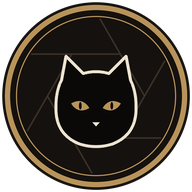
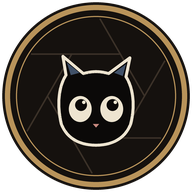
feat: cuter cat with big round eyes; lift the vignette off the plate's border
Redraw the hero cat (round head, big cream eyes looking up, rosy nose,
slate inner ears, curled tail) with an occasional glance, and use the same
cat in the README banner and the logo/favicon seal. The vignette now sits
14px above the brass hairline instead of overlapping it.

Changed region(s): [[0.2812, 0.2812, 0.7188, 0.7812], [0.4688, 0.625, 0.5312, 0.6562]]

diff --git a/index.html b/index.html
@@ -43,13 +43,27 @@
             <path class="hair" d="M112 359h36M98 324h62M90 293h80"/>
           </g>
           <g class="cat">
-            <path class="cat-tail solid" d="M86 274C56 277 38 262 38 238C38 218 50 206 46 190C44 181 52 177 57 184C64 196 54 214 54 236C54 254 66 264 88 263Z"/>
-            <path class="solid body" d="M78 278C68 250 74 208 96 184C100 177 100 169 99 163C89 153 88 128 94 112L100 76L120 96Q131 92 142 96L162 78L166 112C172 128 171 152 161 163C160 170 161 177 166 184C188 208 194 250 182 278Z"/>
-            <path class="hair" d="M101 84L104 104M159 86L156 104M120 278C116 250 118 226 122 208M140 278C144 250 142 226 138 208M92 276C86 254 92 232 106 222M114 278Q121 273 128 278M132 278Q139 273 146 278M112 144L88 140M112 148L90 152M148 144L172 140M148 148L170 152"/>
-            <path class="nose" d="M126 138h8l-4 5z"/>
+            <!-- Tail: a cream rim under a black stroke, standing up with a curl -->
+            <g class="cat-tail">
+              <path class="tail-rim" d="M168 268C198 262 210 236 205 210C201 190 213 178 224 185C231 190 228 200 220 199"/>
+              <path class="tail" d="M168 268C198 262 210 236 205 210C201 190 213 178 224 185C231 190 228 200 220 199"/>
+            </g>
+            <path class="solid body" d="M100 184C87 210 78 244 80 268Q82 278 93 278H167Q178 278 180 268C182 244 173 210 160 184Z"/>
+            <path class="hair" d="M113 278V240M147 278V240M104 278Q112 270 121 278M139 278Q147 270 156 278"/>
+            <!-- A big round head, ears up, looking at you -->
+            <path class="solid body" d="M86 168C80 142 83 120 92 106L88 82L114 104Q130 99 146 104L173 84L168 108C177 122 180 144 174 168C166 189 147 195 130 195C113 195 94 189 86 168Z"/>
+            <path class="inner-ear" d="M93 90L98 106L109 103ZM168 92L164 107L153 103Z"/>
+            <path class="hair" d="M93 171L72 166M93 176L74 179M167 171L188 166M167 176L186 179M126 177Q130 181 130 177Q130 181 134 177"/>
+            <path class="nose" d="M126 168h8l-4 4.5z"/>
             <g class="cat-eyes">
-              <path class="eye" d="M107 124Q116 116 125 124Q116 132 107 124ZM135 124Q144 116 153 124Q144 132 135 124Z"/>
-              <path class="pupil" d="M116 119.5v9M144 119.5v9"/>
+              <ellipse class="eye" cx="110" cy="149" rx="14.5" ry="16.5"/>
+              <ellipse class="eye" cx="150" cy="149" rx="14.5" ry="16.5"/>
+              <g class="cat-pupils">
+                <circle class="pupil" cx="111" cy="144" r="7.5"/>
+                <circle class="pupil" cx="151" cy="144" r="7.5"/>
+                <circle class="shine" cx="114.5" cy="140.5" r="2.2"/>
+                <circle class="shine" cx="154.5" cy="140.5" r="2.2"/>
+              </g>
             </g>
           </g>
           <g class="flash">

diff --git a/css/home.css b/css/home.css
@@ -38,15 +38,17 @@
 }
 
 /* The vignette stands at the right: a black cat on three old books beside a
-   folding camera, the desk line resting on the plate's brass hairline. It
-   develops in just before the print does. Engraved line art in --ink. */
+   folding camera, the desk line sitting just above the plate's brass hairline
+   (never on it). It develops in just before the print does. Line art in --ink. */
 .vignette {
   grid-area: vignette;
   align-self: end;
   width: auto;
   height: clamp(220px, 24vw, 340px);
   aspect-ratio: 360 / 400;
-  margin-bottom: calc(-1 * var(--intro-gap));
+  /* Pull it down toward the plate, but keep the desk line ~14px clear of the
+     brass hairline (outline-offset 10px) so the art never sits on it */
+  margin-bottom: calc(24px - var(--intro-gap));
   overflow: visible;
   fill: none;
   stroke: var(--ink);
@@ -63,24 +65,33 @@
 .vignette .hair { stroke-width: 0.8; opacity: 0.55; }
 .vignette .band { stroke: var(--brass); stroke-width: 1.6; }
 .vignette .label { stroke: var(--brass); stroke-width: 0.8; }
-.vignette .nose { fill: var(--muted); stroke: none; }
-.vignette .eye { fill: var(--brass); stroke: none; }
-.vignette .pupil { stroke: #0b0908; stroke-width: 2.2; }
+.vignette .nose { fill: #c98a80; stroke: none; }
+.vignette .inner-ear { fill: var(--slate); stroke: none; opacity: 0.8; }
+.vignette .eye { fill: var(--ink); stroke: none; }
+.vignette .pupil { fill: #0b0908; stroke: none; }
+.vignette .shine { fill: var(--ink); stroke: none; }
+.vignette .tail-rim { stroke: var(--ink); stroke-width: 12.5; }
+.vignette .tail { stroke: #0b0908; stroke-width: 9.5; }
 .vignette .glass { fill: #0b0908; stroke-width: 0.8; }
 .vignette .glint { fill: var(--ink); stroke: none; opacity: 0.7; }
 .vignette .bulb { fill: var(--ink); stroke: none; }
 .vignette .stem { stroke-width: 2; }
 
-/* A slow blink (about 150ms every 7s) and a lazy tail */
+/* A slow blink (about 150ms every 7s), a curious glance now and then,
+   and a lazy tail */
 .cat-eyes {
   transform-box: fill-box;
   transform-origin: center;
   animation: blink 7s infinite;
 }
 
+.cat-pupils {
+  animation: glance 11s ease-in-out infinite;
+}
+
 .cat-tail {
   transform-box: fill-box;
-  transform-origin: 95% 95%;
+  transform-origin: 0% 100%;
   animation: swish 5s ease-in-out infinite alternate;
 }
 
@@ -106,6 +117,12 @@
 @keyframes blink {
   0%, 97%, 100% { transform: scaleY(1); }
   98.5% { transform: scaleY(0.1); }
+}
+
+@keyframes glance {
+  0%, 40%, 82%, 100% { transform: translateX(0); }
+  46%, 56% { transform: translateX(-3.5px); }
+  62%, 76% { transform: translateX(3.5px); }
 }
 
 @keyframes swish {

diff --git a/docs/ARCHITECTURE.md b/docs/ARCHITECTURE.md
@@ -138,12 +138,12 @@ Direction: dark academia. Everything visual comes from tokens on `:root` in `css
 - **Type:** two self-hosted families in `assets/fonts/`, both SIL OFL. Cormorant Garamond (a serif, upright and italic) is for display type, headings and the print captions. Hanken Grotesk is for the UI. Use sentence case everywhere, with no all-caps labels.
 - **Atmosphere:** `body::before` is a fixed vignette and `body::after` a fixed paper grain (an inline SVG noise tile), both behind the content. The rain canvas sits above them.
 - **Shape:** photos have sharp corners, while controls are soft (pill buttons, round slider thumbs).
-- **Logo:** `assets/brand/logo.svg` is a cat seal. The `icon-*.png` files and `apple-touch-icon.png` are PNG renders of it, used for the favicon and the lab header logo. The empty tool frame on the home page uses `logo.svg` directly. It is temporary art: regenerate the PNGs at the same sizes with Pillow if it changes.
-- **Vignette:** the home hero has an inline SVG of a black cat on three books beside a bellows camera. The cat's blink and tail loops run continuously. The camera's flash fires each time a new print develops, but not for the first print, not while paused and not under reduced motion. `home.js` toggles the `.fire` class for the flash and `.paused` (from the pause button) to freeze the loops.
+- **Logo:** `assets/brand/logo.svg` is a cat seal: the hero cat's head, scaled into a brass-ringed disc. The `icon-*.png` files and `apple-touch-icon.png` are PNG renders of it, used for the favicon and the lab header logo. The empty tool frame on the home page uses `logo.svg` directly. It is temporary art: regenerate the PNGs at the same sizes with Pillow if it changes.
+- **Vignette:** the home hero has an inline SVG of a cute black cat (big round cream eyes looking up, a rosy nose, a curled tail) on three books beside a bellows camera. It sits just above the plate's brass hairline, never on it. The cat's blink, glance and tail loops run continuously. The camera's flash fires each time a new print develops, but not for the first print, not while paused and not under reduced motion. `home.js` toggles the `.fire` class for the flash and `.paused` (from the pause button) to freeze the loops.
 - **Prints:** eight code-painted scenes (captioned "Plate I" to "Plate VIII"). The sepia tone is applied by a CSS `filter` on the home frame only, so the lab and exports are unaffected. A fleuron (inline SVG) divides the hero from the tools list.
 - **Motion:** there are few, deliberate moments.
   - The `.develop` reveal plays when a photo appears, like a print emerging in the developer tray. It's used for each print in the home slideshow (every 8 seconds, each one over the last) and for each photo loaded in the lab.
-  - The vignette's blink and tail loops, and its flash as each new print develops.
+  - The vignette's blink, glance and tail loops, and its flash as each new print develops.
   - Rain falls behind the home page.
   - The slideshow, rain and vignette move on their own for more than 5 seconds, so one button pauses all of them (WCAG 2.2.2). With reduced motion on, they start paused.
   - The page morphs from home to the lab (`@view-transition`, with `view-transition-name: frame` on both photo areas). Browsers without support simply navigate normally.
